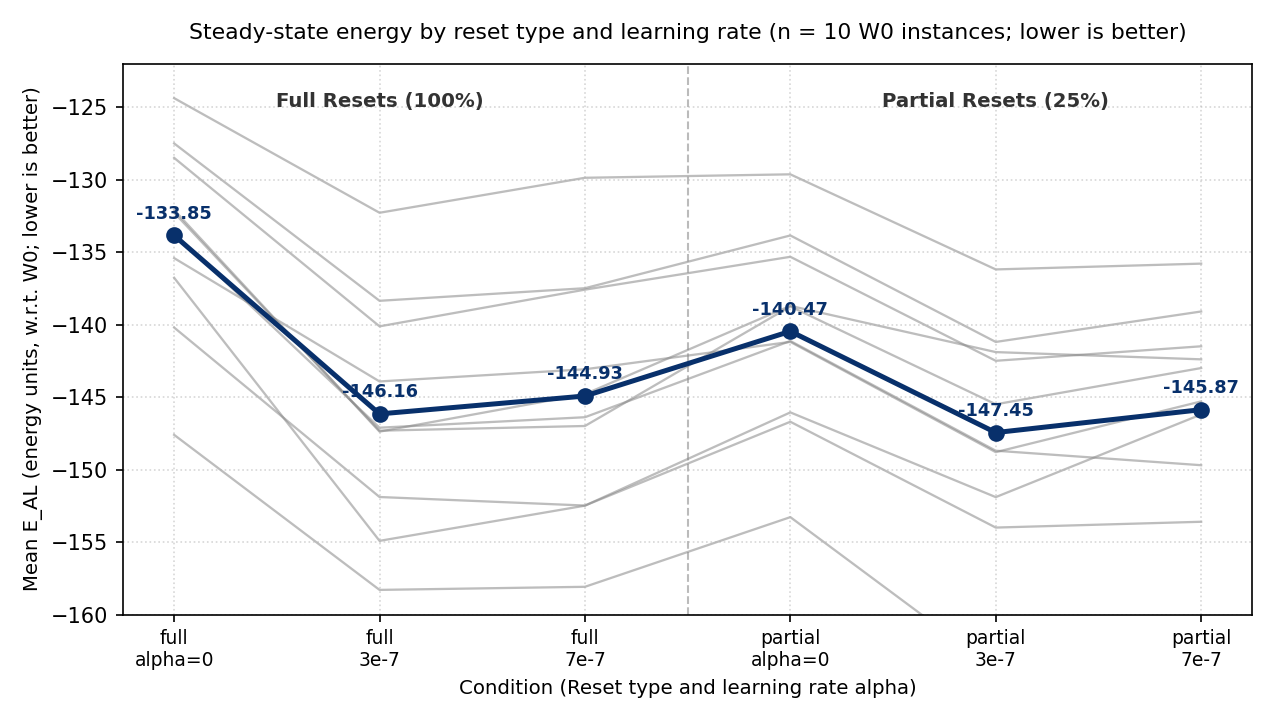
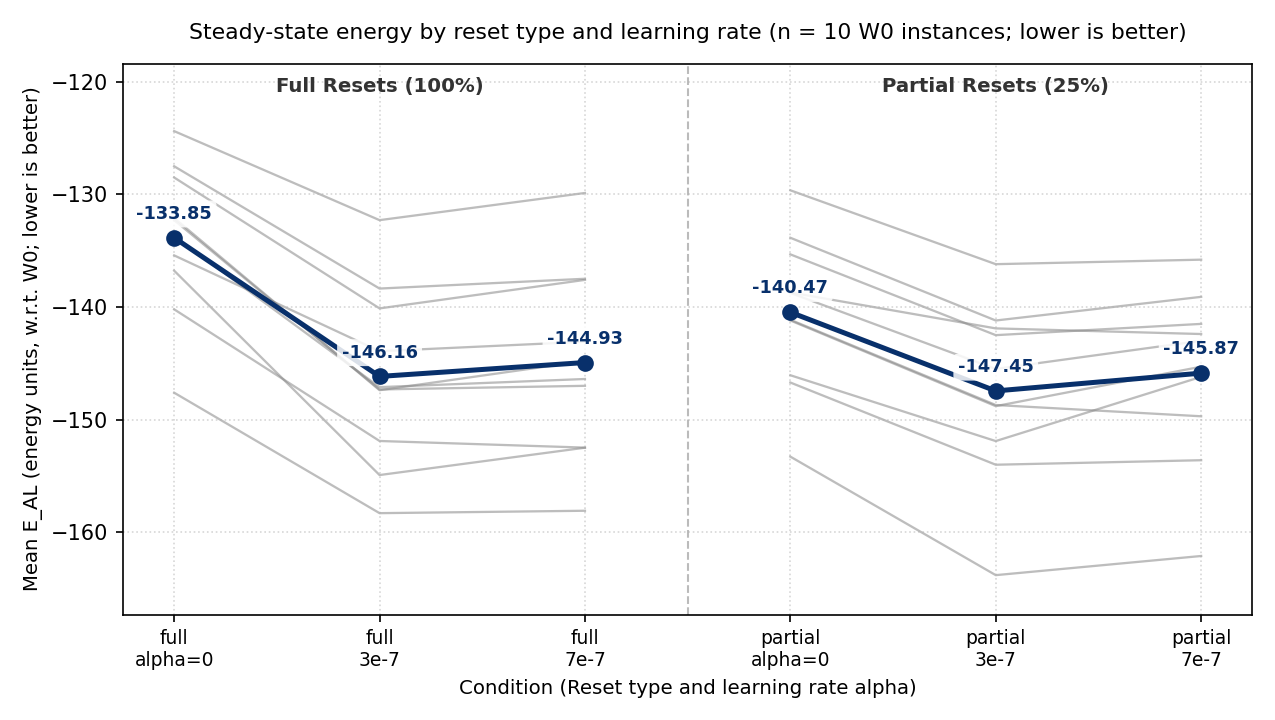
Fix ablation figure scaling, line segments and update Figure 5 caption

diff --git a/make_figures.py b/make_figures.py
@@ -43,22 +43,39 @@ def make_ablation_figure():
             w_matrix[w, j] = val
         cond_means.append(np.mean(w_matrix[:, j]))
 
-    # Draw thin grey line per W0 instance
+    cond_means = np.array(cond_means)
+
+    # Segment indices: full resets (0, 1, 2) and partial resets (3, 4, 5)
+    full_idx = [0, 1, 2]
+    partial_idx = [3, 4, 5]
+
+    # Draw thin grey lines per W0 instance in two separate segments
     for w in range(10):
-        ax.plot(xs, w_matrix[w, :], color="#888888", alpha=0.55, lw=1.1, zorder=1)
+        ax.plot(xs[full_idx], w_matrix[w, full_idx], color="#888888", alpha=0.55, lw=1.1, zorder=1)
+        ax.plot(xs[partial_idx], w_matrix[w, partial_idx], color="#888888", alpha=0.55, lw=1.1, zorder=1)
 
-    # Bold marker and line for the mean
-    ax.plot(xs, cond_means, color="#08306b", lw=2.4, marker="o", ms=7, zorder=3, label="Condition Mean")
+    # Bold marker and line for the mean in two separate segments
+    ax.plot(xs[full_idx], cond_means[full_idx], color="#08306b", lw=2.4, marker="o", ms=7, zorder=3, label="Condition Mean")
+    ax.plot(xs[partial_idx], cond_means[partial_idx], color="#08306b", lw=2.4, marker="o", ms=7, zorder=3)
 
-    # Annotate mean values above/below points
+    # Annotate mean values with white semi-transparent background box
+    bbox_props = dict(boxstyle="round,pad=0.25", fc="white", ec="none", alpha=0.85)
     for j, m in enumerate(cond_means):
-        ax.annotate(f"{m:.2f}", (xs[j], m), textcoords="offset points", xytext=(0, 8),
-                    ha="center", fontsize=8.5, fontweight="bold", color="#08306b")
+        ax.annotate(f"{m:.2f}", (xs[j], m), textcoords="offset points", xytext=(0, 9),
+                    ha="center", fontsize=8.5, fontweight="bold", color="#08306b",
+                    bbox=bbox_props, zorder=4)
 
     # Add vertical separator between full and partial resets
     ax.axvline(2.5, color="#bbbbbb", ls="--", lw=1.0, zorder=0)
-    ax.text(1.0, -125.0, "Full Resets (100%)", ha="center", fontsize=9.5, fontweight="bold", color="#333333")
-    ax.text(4.0, -125.0, "Partial Resets (25%)", ha="center", fontsize=9.5, fontweight="bold", color="#333333")
+
+    # Dynamic y-limits from data min and max with a margin of about 3-5 units
+    y_min = np.min(w_matrix) - 3.5
+    y_max = np.max(w_matrix) + 6.0
+    ax.set_ylim(y_min, y_max)
+
+    # Headers for categories
+    ax.text(1.0, y_max - 2.5, "Full Resets (100%)", ha="center", fontsize=9.5, fontweight="bold", color="#333333")
+    ax.text(4.0, y_max - 2.5, "Partial Resets (25%)", ha="center", fontsize=9.5, fontweight="bold", color="#333333")
 
     ax.set_xticks(xs)
     ax.set_xticklabels([c[2] for c in conditions], fontsize=9)
@@ -66,7 +83,6 @@ def make_ablation_figure():
     ax.set_xlabel("Condition (Reset type and learning rate alpha)", fontsize=9.5)
     ax.set_title("Steady-state energy by reset type and learning rate (n = 10 W0 instances; lower is better)", fontsize=10.5, pad=12)
     ax.grid(True, ls=":", alpha=0.5, zorder=0)
-    ax.set_ylim(-160, -122)
 
     fig.tight_layout()
     fig.savefig("ablation_E_AL.png", dpi=150)

diff --git a/README.md b/README.md
@@ -177,7 +177,7 @@ Comparing early vs. late plasticity under identical cycle doses ($D = 7.0 \times
 
 ![Early Minus Late Plasticity Window](early_vs_late.png)
 
-*Figure 5: Paired difference in post-learning energy between early and late plasticity windows (E_AL(early) - E_AL(late)) as a function of duty fraction rho for T in {500, 1000, 2000}, with shaded 95% bootstrap confidence bands.*
+*Figure 5: Paired difference in post-learning energy between early and late plasticity windows (E_AL(early) - E_AL(late)) as a function of duty fraction rho for T in {500, 1000, 2000}, with shaded 95% bootstrap confidence bands. At rho = 1.0 the early and late windows coincide by construction, so the difference is exactly 0.*
 
 ---
 
